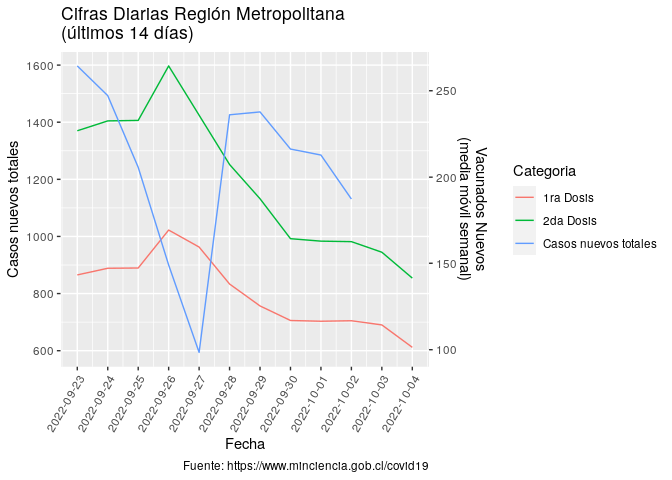
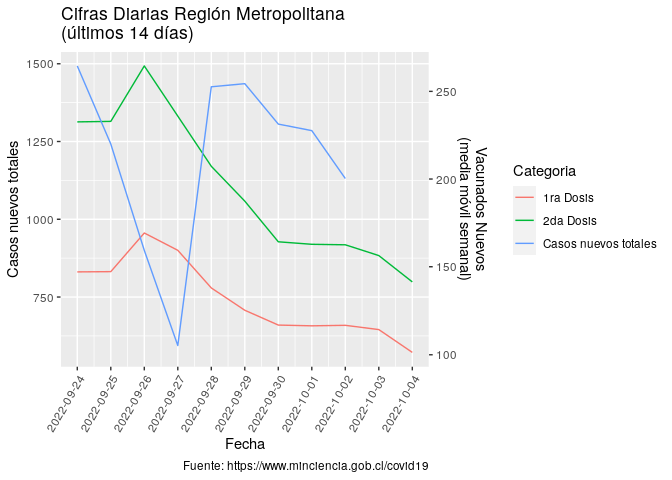
Re-build Rmarkdown files

diff --git a/README.md b/README.md
@@ -3,7 +3,7 @@
 
 Ejemplo de uso de total\_casos de COVID recopilados por el Ministerio de
 Ciencia de Chile <https://www.minciencia.gob.cl/covid19>. Última
-actualización: 2022-10-06
+actualización: 2022-10-07
 
 ## Visualización desde el comienzo de la pandemia
 
